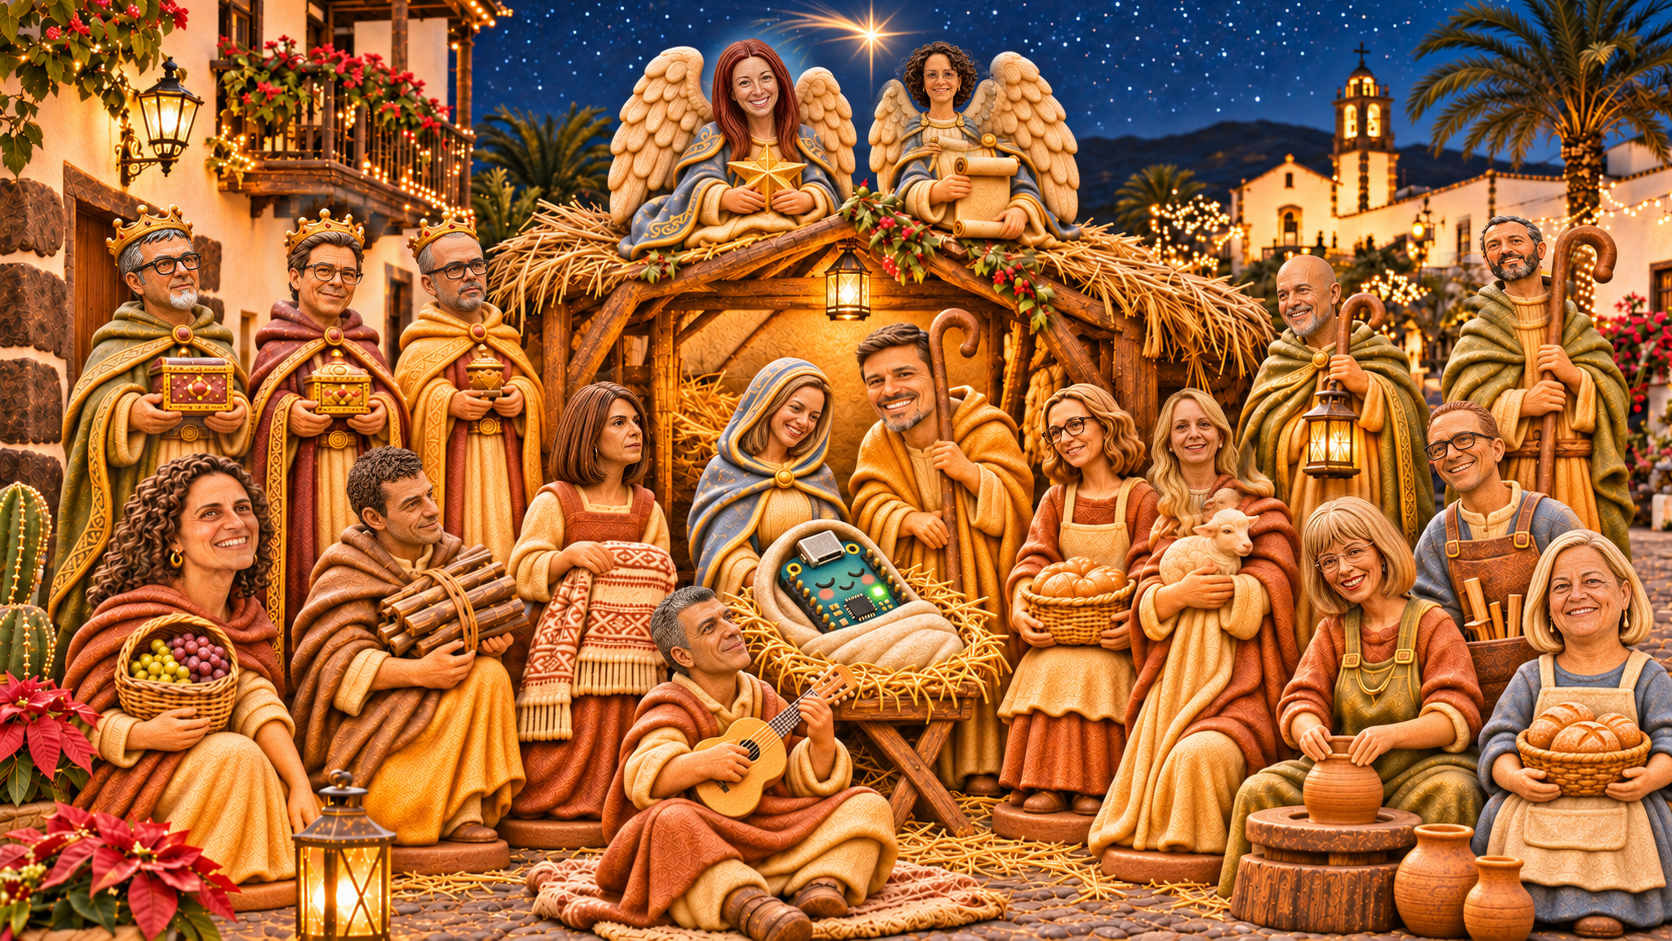
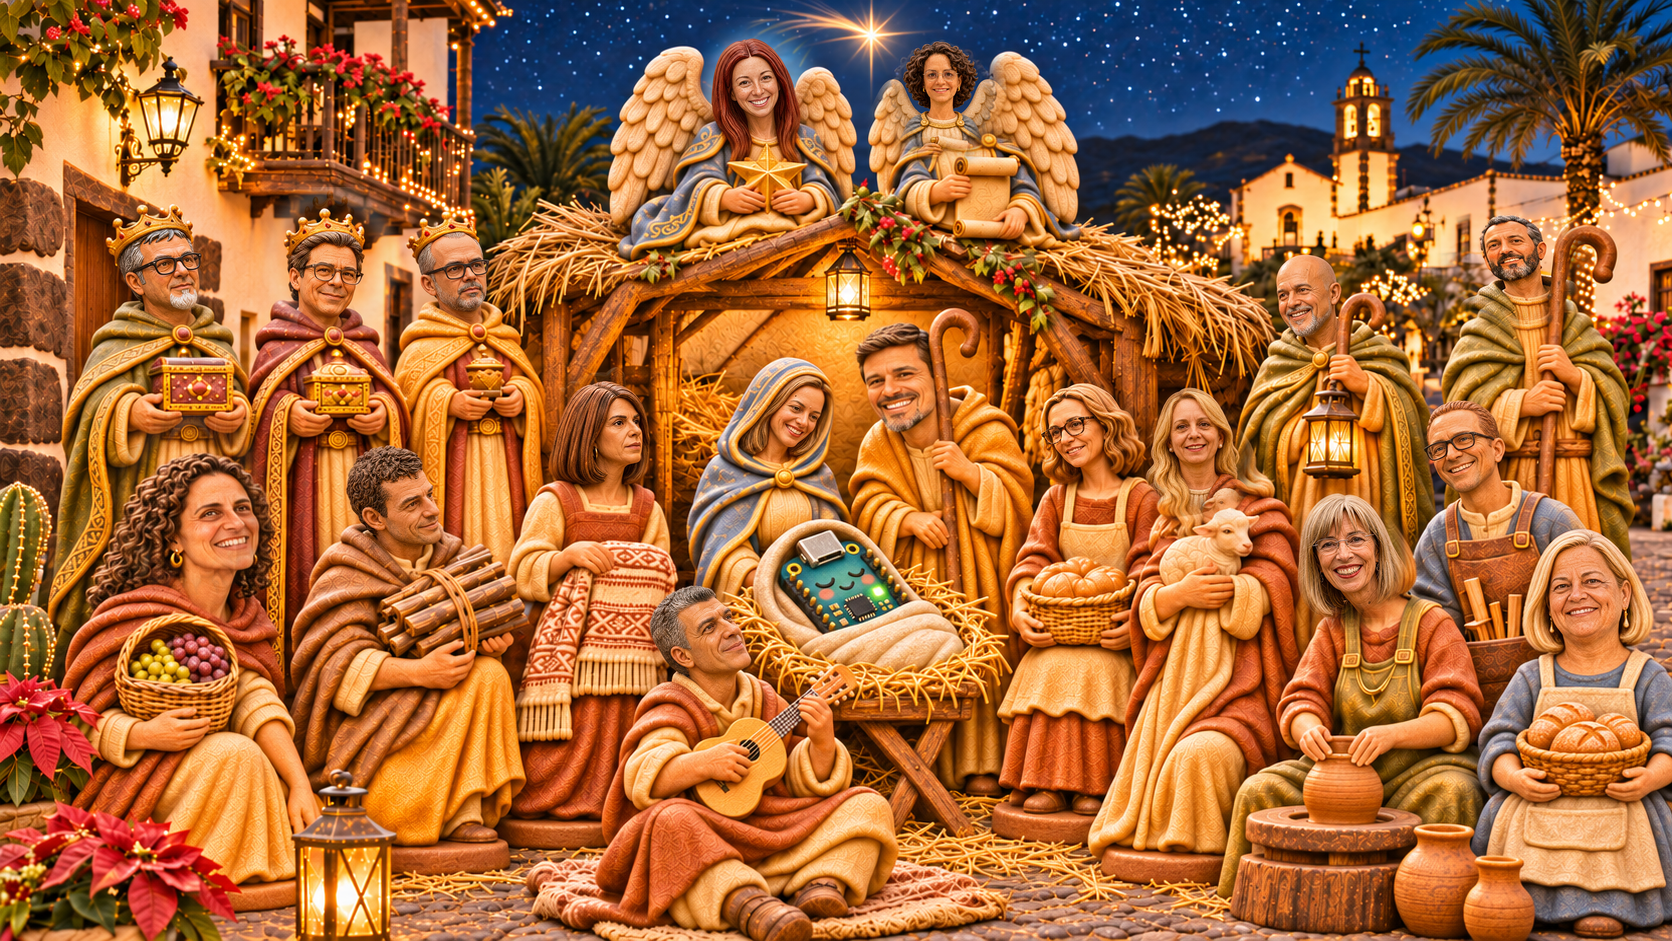
fix: closer figurine Elisa and label both alternative scenes as interpretations

Changed region(s): [[0.7775, 0.5239, 0.8397, 0.678]]

diff --git a/web/index.html b/web/index.html
@@ -109,8 +109,8 @@
       <h3>Otras versiones del belén</h3>
       <p class="lead">Dos interpretaciones de la escena, generadas a partir de los personajes.</p>
       <div class="scene-versions">
-        <figure><a href="assets/belen-figuritas-integradas.png"><img src="assets/belen-figuritas-integradas.webp" width="1672" height="941" alt="Belén integrado con las dieciocho figuritas y la placa en el pesebre" loading="lazy"></a><figcaption>Figuritas integradas · las dieciocho personas y la placa en el pesebre</figcaption><a class="text-link" href="assets/belen-figuritas-integradas.png" download>Descargar esta versión ↓</a></figure>
-        <figure><a href="assets/belen-realista-interpretacion.png"><img src="assets/belen-realista-interpretacion.webp" width="1672" height="941" alt="Versión realista del belén con las dieciocho personas y la placa en el pesebre" loading="lazy"></a><figcaption>Versión realista · las mismas dieciocho personas y la placa en el pesebre</figcaption><a class="text-link" href="assets/belen-realista-interpretacion.png" download>Descargar esta versión ↓</a></figure>
+        <figure><a href="assets/belen-figuritas-integradas.png"><img src="assets/belen-figuritas-integradas.webp" width="1672" height="941" alt="Belén integrado con las dieciocho figuritas y la placa en el pesebre" loading="lazy"></a><figcaption>Interpretación con figuritas integradas · las dieciocho personas y la placa en el pesebre</figcaption><a class="text-link" href="assets/belen-figuritas-integradas.png" download>Descargar esta versión ↓</a></figure>
+        <figure><a href="assets/belen-realista-interpretacion.png"><img src="assets/belen-realista-interpretacion.webp" width="1672" height="941" alt="Versión realista del belén con las dieciocho personas y la placa en el pesebre" loading="lazy"></a><figcaption>Interpretación realista · las mismas dieciocho personas y la placa en el pesebre</figcaption><a class="text-link" href="assets/belen-realista-interpretacion.png" download>Descargar esta versión ↓</a></figure>
       </div>
     </section>
   </main>
